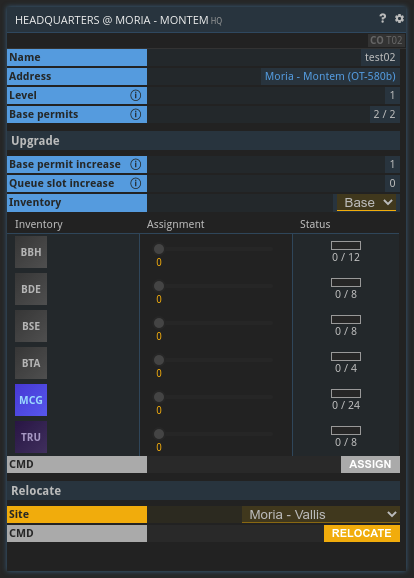
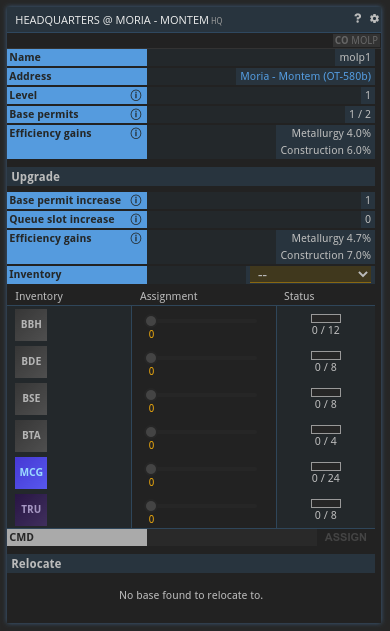
Update company HQ documentation
ecosim/ecosim-server#323

Changed region(s): [[0.0, 0.0, 0.9846, 0.9654], [0.3692, 0.6228, 0.4, 0.654]]

diff --git a/content/wiki/headquarters/_index.md b/content/wiki/headquarters/_index.md
@@ -29,6 +29,8 @@ Depending on the faction of your HQ's location (find it in the **PLI** command o
 * **NEO Charter Exploration:** 2% bonus on metallurgy, 3% on construction
 * **No faction:** 2% bonus on chemistry, fuel refining and resource extraction
 
+Furthermore, this bonus is modified by the ratio of used base permits to available base permits. The lower this ratio is the higher the bonus.  
+
 You can relocate your HQ to another one of your bases every 30 days. It will keep its current level.
 
 ## About this page
